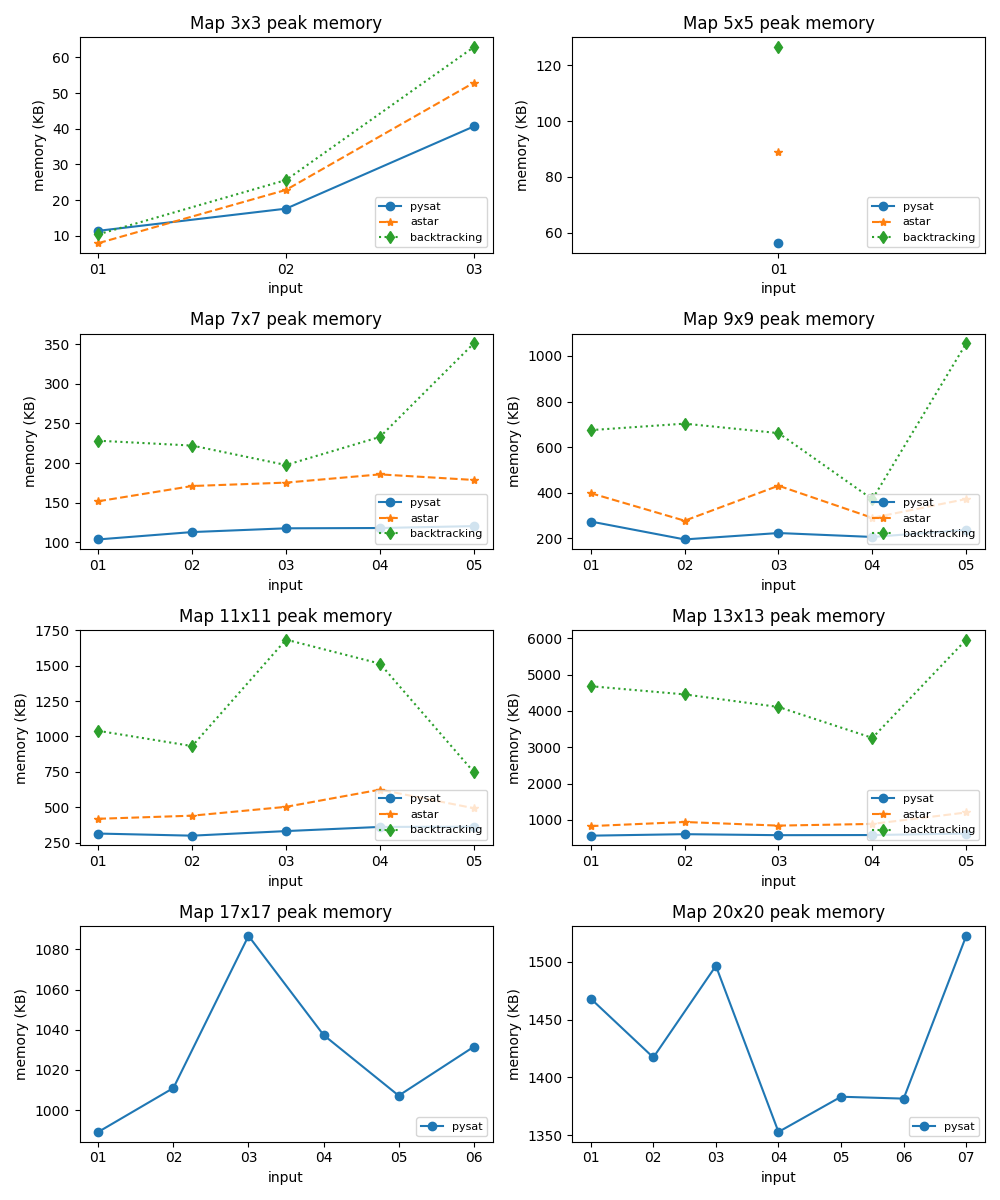
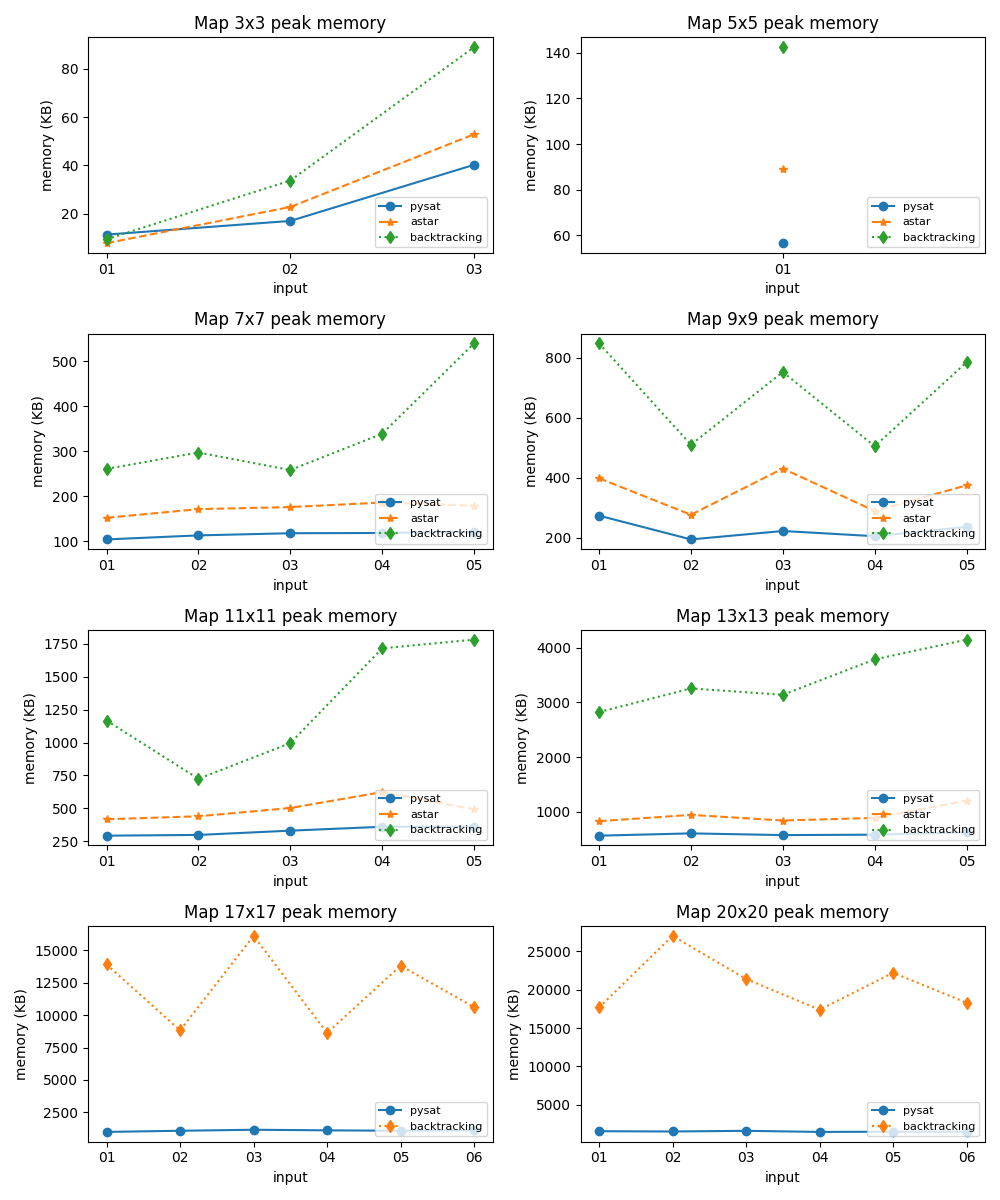
chore: 🔧 update benchmark script

diff --git a/Source/src/benchmark.py b/Source/src/benchmark.py
@@ -24,9 +24,9 @@ from utils import (
 
 TEST_SETS = [3, 5, 7, 9, 11, 13, 17, 20]
 SOLVERS: list[tuple[str, Callable, list[int], bool]] = [
-    ("pysat", solve_with_pysat, TEST_SETS, True),
+    ("pysat", solve_with_pysat, TEST_SETS[:], True),
     ("astar", solve_with_astar, TEST_SETS[:6], False),
-    ("backtracking", solve_with_backtracking, TEST_SETS[:6], False),
+    ("backtracking", solve_with_backtracking, TEST_SETS[:], False),
     ("bruteforce", solve_with_bruteforce, TEST_SETS[:0], False),
 ]
 SOLVER_COUNT = len(SOLVERS)
